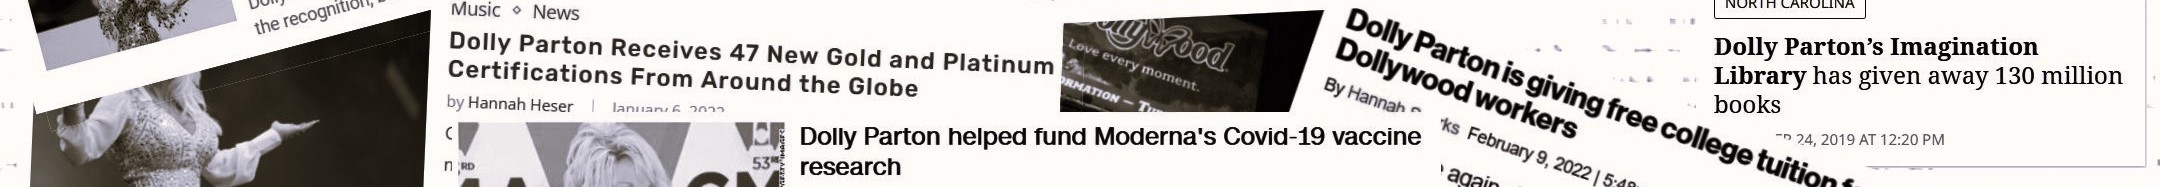
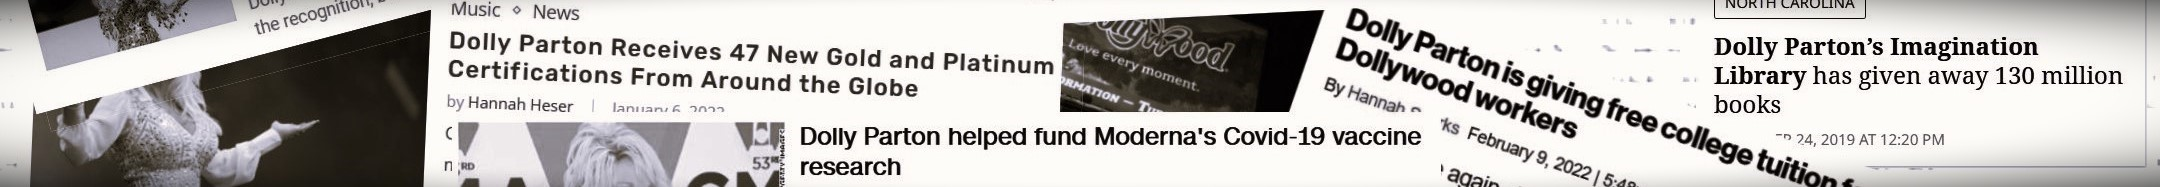
New images and separators

diff --git a/index.html b/index.html
@@ -149,8 +149,17 @@
 	</div>
 
 
-	<div class = 'big-gutter'></div>
+	<div class = 'gutter'></div>
+	<div class = 'gutter'></div>
 
+
+	<div class = 'row'>
+		<img src = "img/bw_cropped_news_s11.jpg" width = 99%>
+	</div>
+
+	<div class = 'gutter'></div>
+	<div class = 'gutter'></div>
+	
 
 	<!-- Title and external legend side by side, plot underneath that, slider underneath the timeline -->
 	<div class = 'container-fluid module' id = 'module-2'>
@@ -197,7 +206,8 @@
 	</div>
 
 
-	<div class = 'big-gutter'></div>
+	<div class = 'gutter'></div>
+	<div class = 'gutter'></div>
 
 
 	<div class = 'container-fluid module' id = 'module-3'>
@@ -357,8 +367,8 @@
 
 	<div class = 'big-gutter'></div>
 
-	<div class = 'row news-feature'>
-		<!-- News story collage about impact -->
+	<div class = 'row'>
+		<img src = "img/bw_cropped_news_s3.jpg" width = 99%>
 	</div>
 
 	<div class = 'gutter'></div>

diff --git a/css/index.css b/css/index.css
@@ -10,12 +10,6 @@ html{
 
 }
 
-.news-feature{
-    background-image: url(../img/bw_cropped_news.jpg);
-    background-size: cover;
-    padding-bottom: 38%;
-}
-
 .title{
     /* Stands out on dark backgrounds */
     font-family: googleLato;
